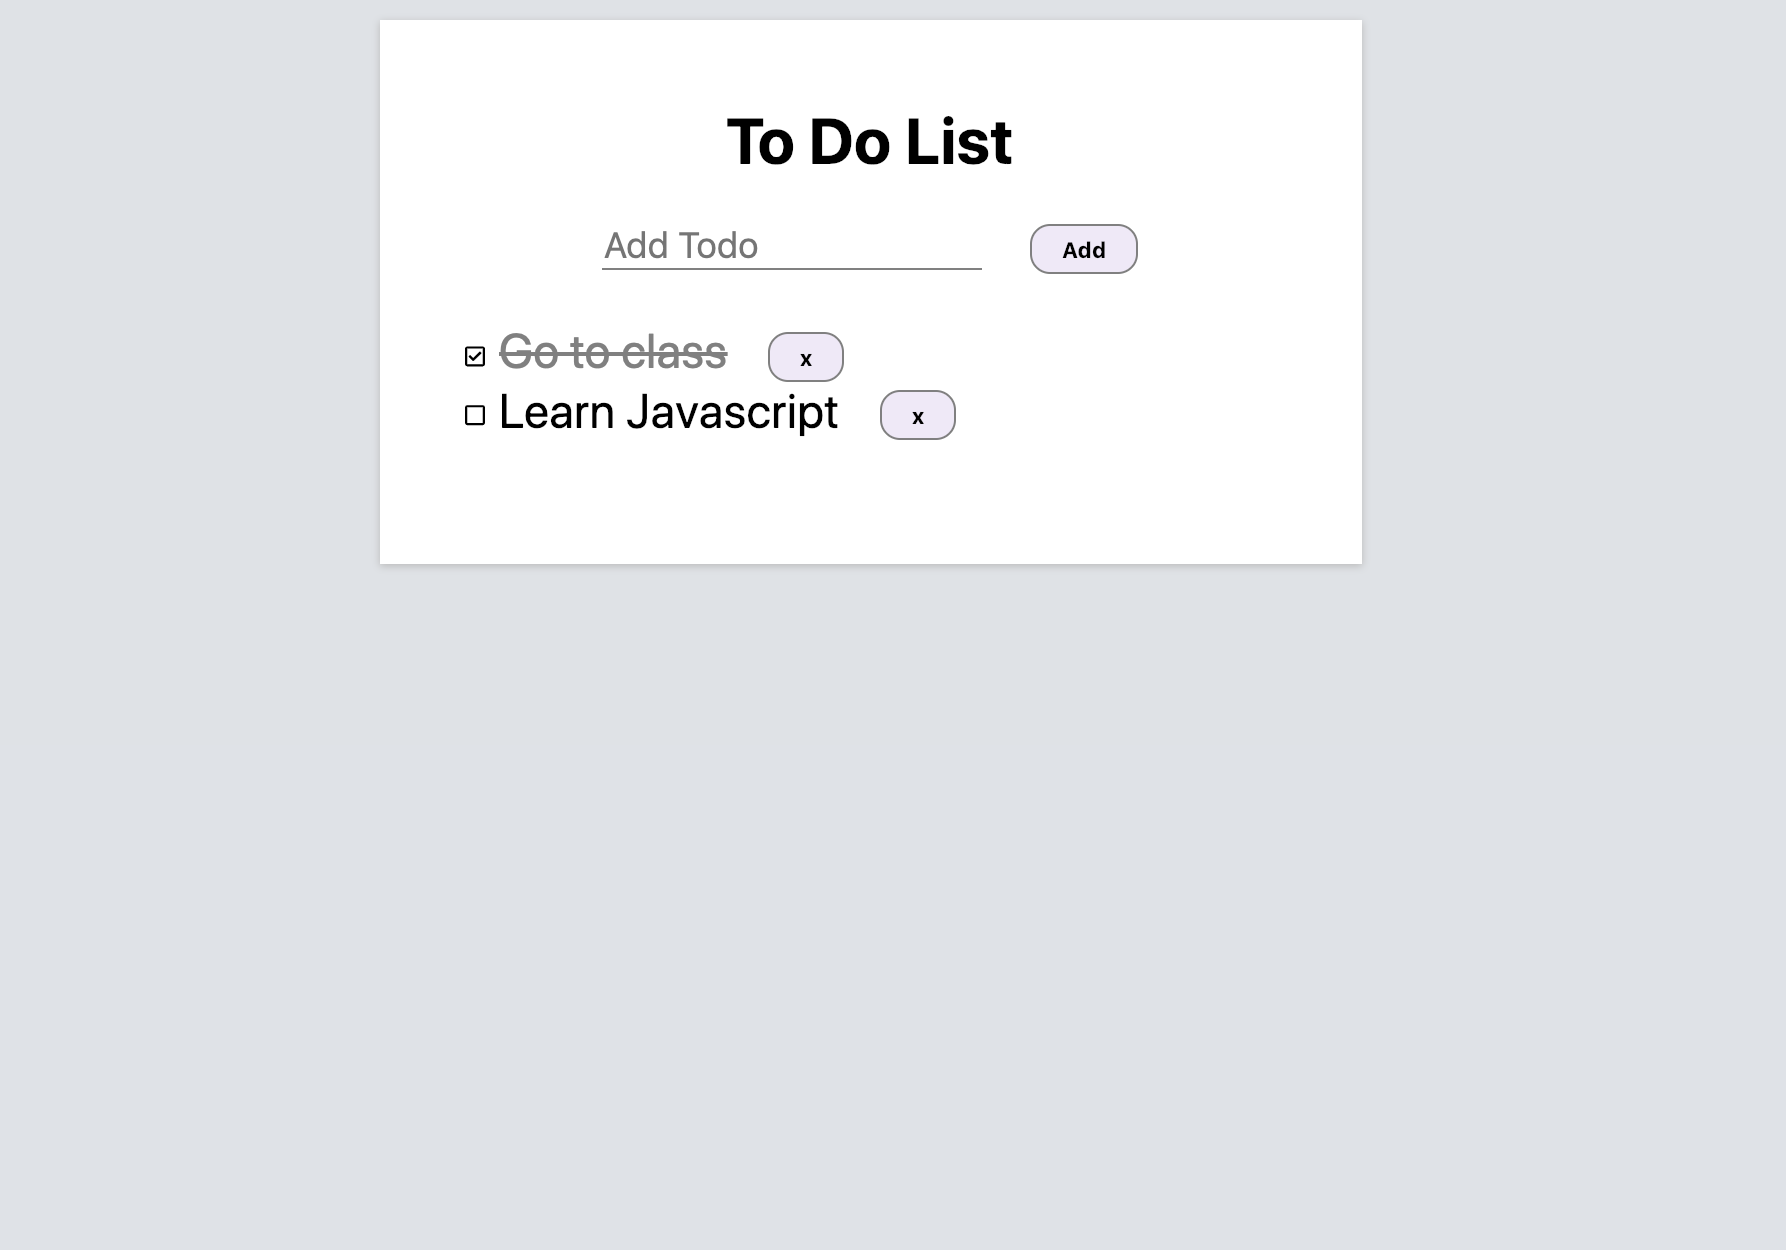
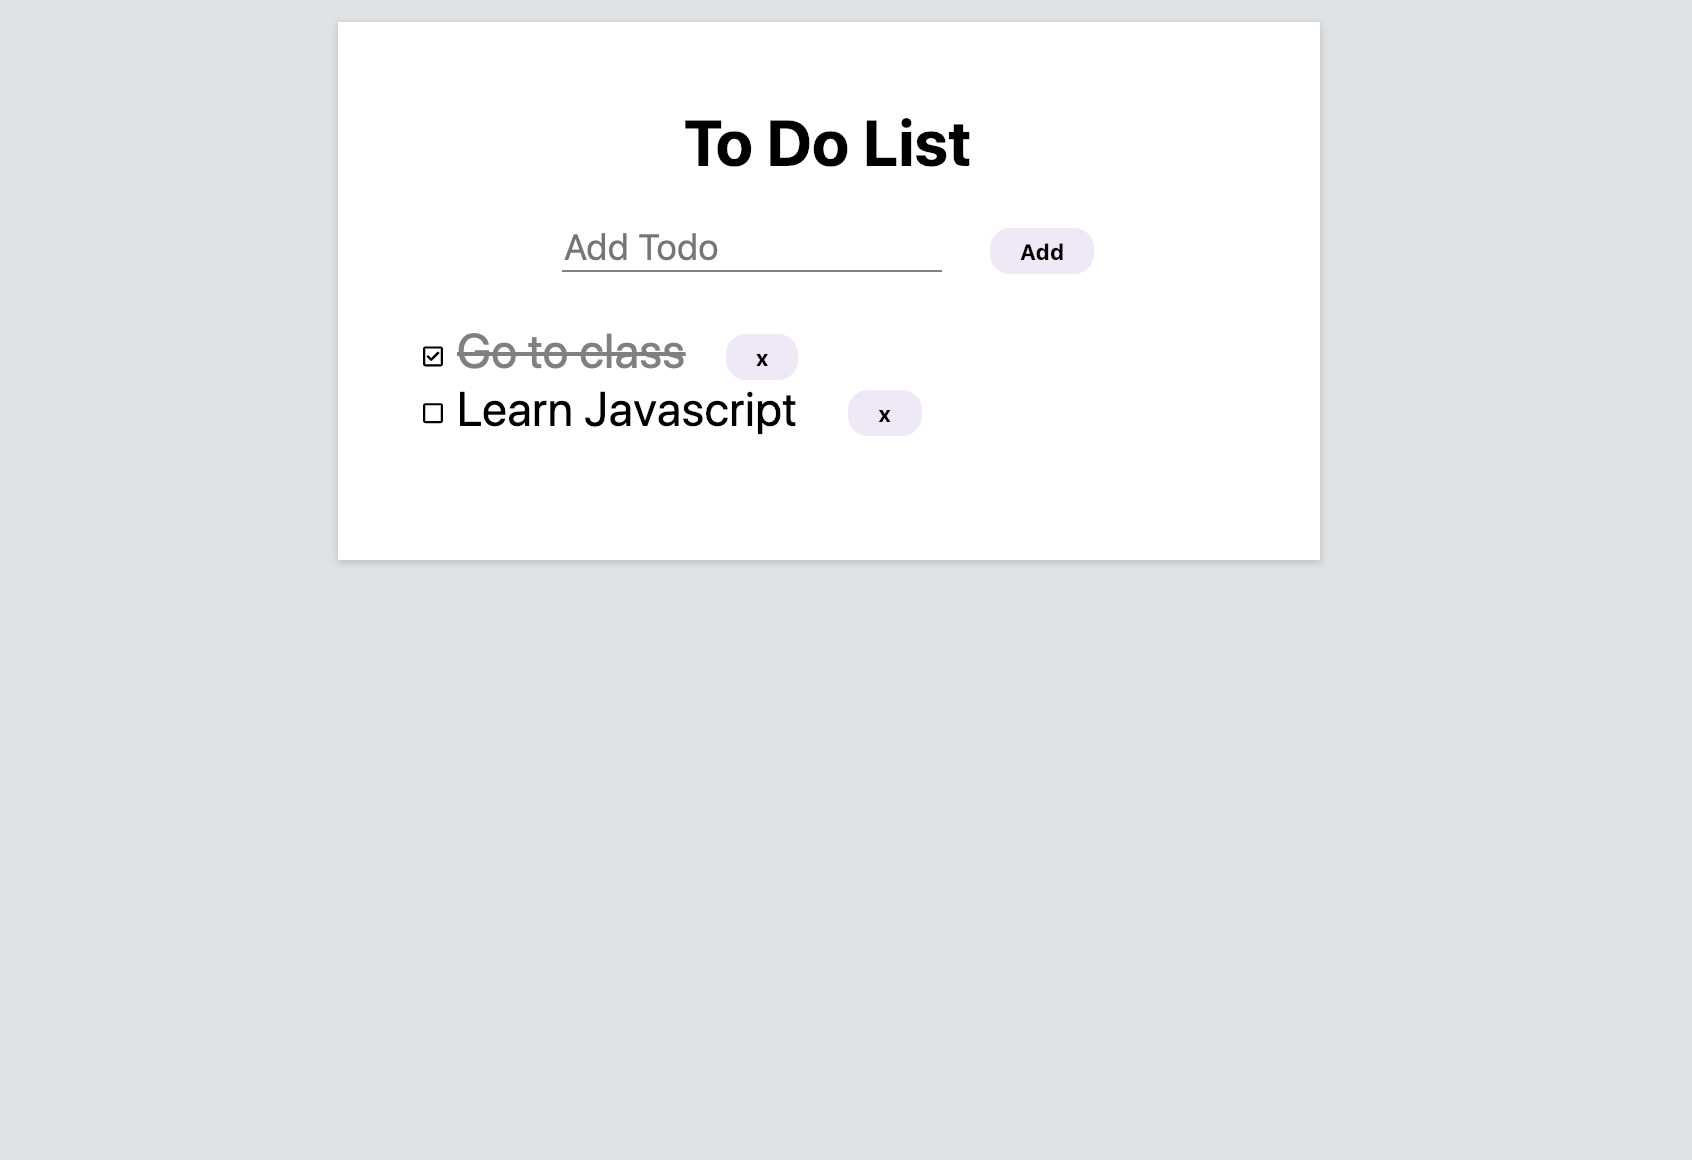
Update example

diff --git a/index.css b/index.css
@@ -46,7 +46,7 @@ li[aria-checked="true"] {
 }
 
 button {
-  border: 1px solid gray;
+  border: none;
   border-radius: 10px;
   padding: 5px 15px;
   font-weight: bold;
